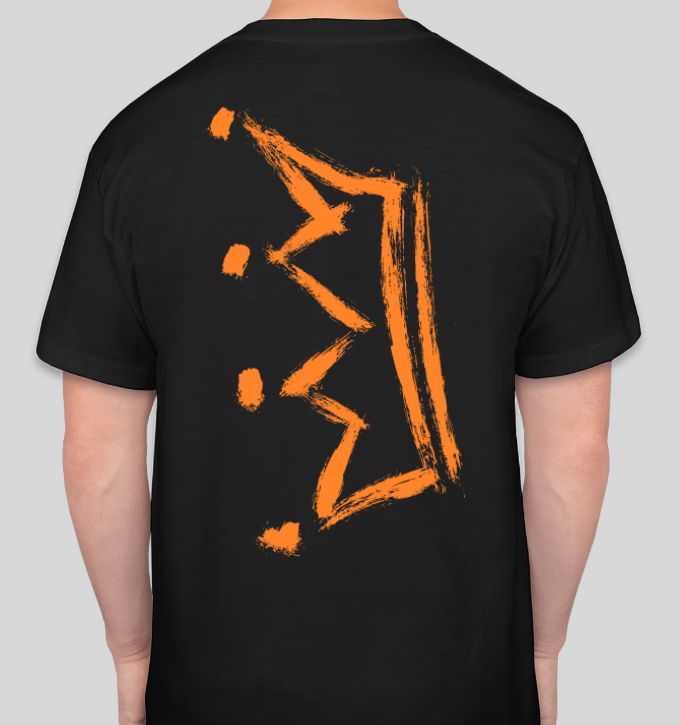
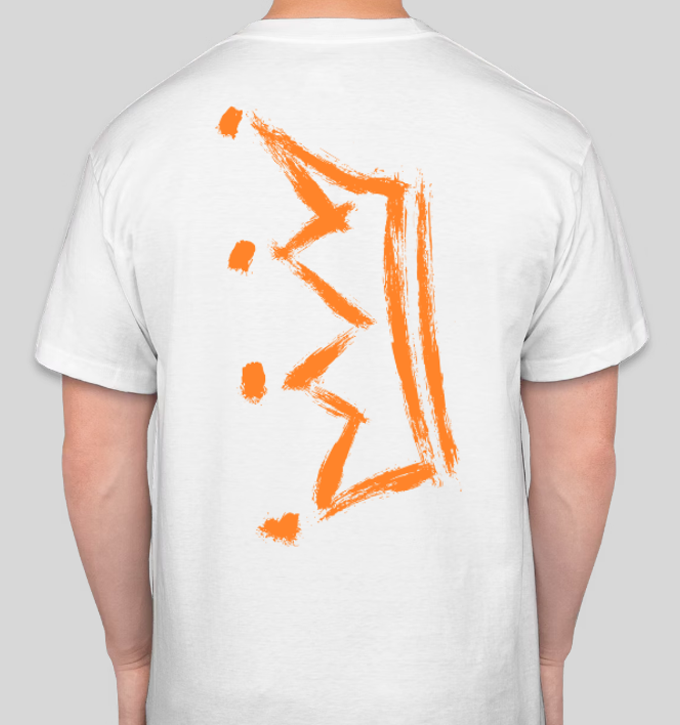
User test input verwerkt

diff --git a/merch1.html b/merch1.html
@@ -40,14 +40,16 @@
     </nav>
 
     <div class="title-container">
-        <h1 class="title">VERTILE DIMENSION X SHIRT BLACK €34.95</h1>
+        <a href="merchandise.html" class="navigation-button">&#8592; Terug</a>
+        <h1 class="title">VERTILE ORIGINAL SHIRT WHITE €29.95</h1>
     </div>
+
 
     <div class="image-containerX">
         <img src="images/merch1_voorkant.png" alt="Afbeelding 1">
         <img src="images/merch1_achterkant.png" alt="Afbeelding 2">
     </div>
-    
+
     <div class="button-container">
         <div class="add-to-shopping-cart">
             <a href="#">Add to shopping cart <img src="images/shopping_card (wit).png" alt="Winkelwagen"></a>
@@ -61,20 +63,20 @@
             <button>XXL</button>
         </div>
     </div>
-    
+
 
     <footer class="footer-product">
-    <div class="footer-content">
-        <div class="footer-middle">
-            <p>© 2023 Vertile</p>
+        <div class="footer-content">
+            <div class="footer-middle">
+                <p>© 2023 Vertile</p>
+            </div>
+            <div class="footer-divider"></div>
+            <div class="footer-bottom">
+                <p>Privacy Statement</p>
+                <p>Terms &amp; Conditions</p>
+            </div>
         </div>
-        <div class="footer-divider"></div>
-        <div class="footer-bottom">
-            <p>Privacy Statement</p>
-            <p>Terms &amp; Conditions</p>
-        </div>
-    </div>
-</footer>
+    </footer>
 
 
 

diff --git a/style.css b/style.css
@@ -216,12 +216,40 @@ nav {
     align-items: center;
     height: 87px;
     margin-top: 15px;
+    gap: 29px;
 }
 
 .title {
     text-align: center;
     color: #ffffff;
     font-size: 25px;
+}
+
+.navigation-button {
+    margin-right: 10px;
+    color: #ffffff;
+    text-decoration: none;
+    font-size: 18px;
+    right: 40px;
+    border-radius: 10px 0 0 10px;
+    padding: 4px 5px 6px 4px;
+    outline: 2px solid #1345F8;
+    background-color: transparent;
+    font-weight: bold;
+    font-size: 14px;
+}
+
+.navigation-button:hover {
+    margin-right: 10px;
+    color: #ffffff;
+    text-decoration: none;
+    font-size: 18px;
+    right: 40px;
+    border-radius: 10px 0 0 10px;
+    padding: 4px 5px 6px 4px;
+    outline: 2px solid #1345F8;
+    background-color: #1345F8;
+    font-size: 14px;
 }
 
 .image-containerX {

diff --git a/merchandise.html b/merchandise.html
@@ -80,7 +80,7 @@
 
         <div class="image-wrapper">
             <img src="images/merch6_voorkant.png" alt="Image 6">
-            <p>VERTILE KINGSDAY SHIRT BLACK €34.95</p>
+            <p>VERTILE KINGSDAY SHIRT WHITE €34.95</p>
             <a href="merch6.html">View product <img src="images/shopping_card.png" alt="Winkelwagen"></a>
         </div>
     </div>

diff --git a/merch3.html b/merch3.html
@@ -40,7 +40,8 @@
     </nav>
 
     <div class="title-container">
-        <h1 class="title">VERTILE DIMENSION X SHIRT BLACK €34.95</h1>
+        <a href="merchandise.html" class="navigation-button">&#8592; Terug</a>
+        <h1 class="title">VERTILE DIMENSION X SHIRT WHITE €34.95</h1>
     </div>
 
     <div class="image-containerX">

diff --git a/merch5.html b/merch5.html
@@ -40,7 +40,8 @@
     </nav>
 
     <div class="title-container">
-        <h1 class="title">VERTILE DIMENSION X SHIRT BLACK €34.95</h1>
+        <a href="merchandise.html" class="navigation-button">&#8592; Terug</a>
+        <h1 class="title">VERTILE KINGSDAY SHIRT ORANGE €34.95</h1>
     </div>
 
     <div class="image-container5-6">

diff --git a/merch6.html b/merch6.html
@@ -40,7 +40,8 @@
     </nav>
 
     <div class="title-container">
-        <h1 class="title">VERTILE DIMENSION X SHIRT BLACK €34.95</h1>
+        <a href="merchandise.html" class="navigation-button">&#8592; Terug</a>
+        <h1 class="title">VERTILE KINGSDAY SHIRT WHITE €34.95</h1>
     </div>
 
     <div class="image-container5-6">

diff --git a/merch2.html b/merch2.html
@@ -40,7 +40,8 @@
     </nav>
 
     <div class="title-container">
-        <h1 class="title">VERTILE DIMENSION X SHIRT BLACK €34.95</h1>
+        <a href="merchandise.html" class="navigation-button">&#8592; Terug</a>
+        <h1 class="title">VERTILE ORIGINAL SHIRT BLACK €29.95</h1>
     </div>
 
     <div class="image-containerX">

diff --git a/merch4.html b/merch4.html
@@ -40,6 +40,7 @@
     </nav>
 
     <div class="title-container">
+        <a href="merchandise.html" class="navigation-button">&#8592; Terug</a>
         <h1 class="title">VERTILE DIMENSION X SHIRT BLACK €34.95</h1>
     </div>
 
